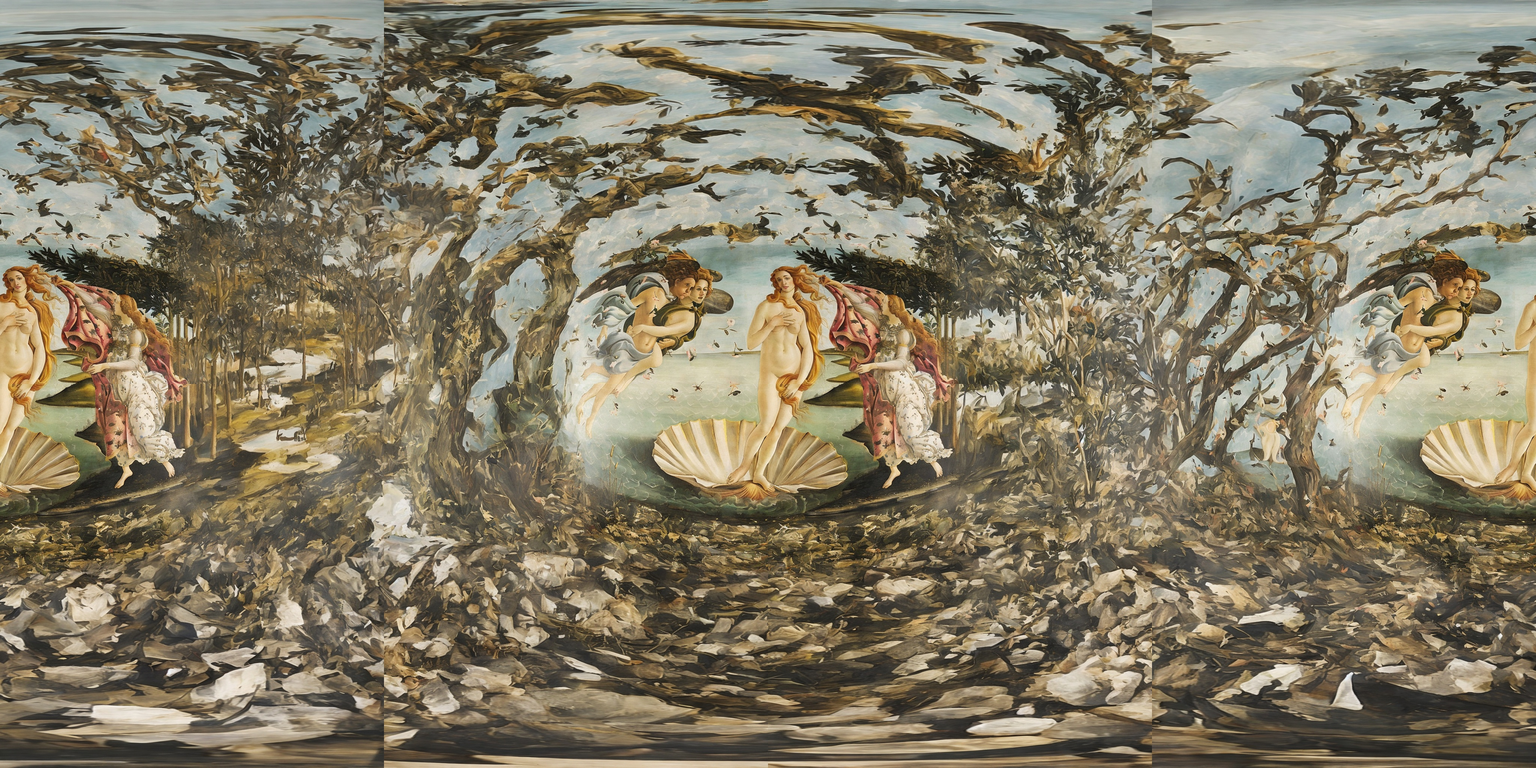
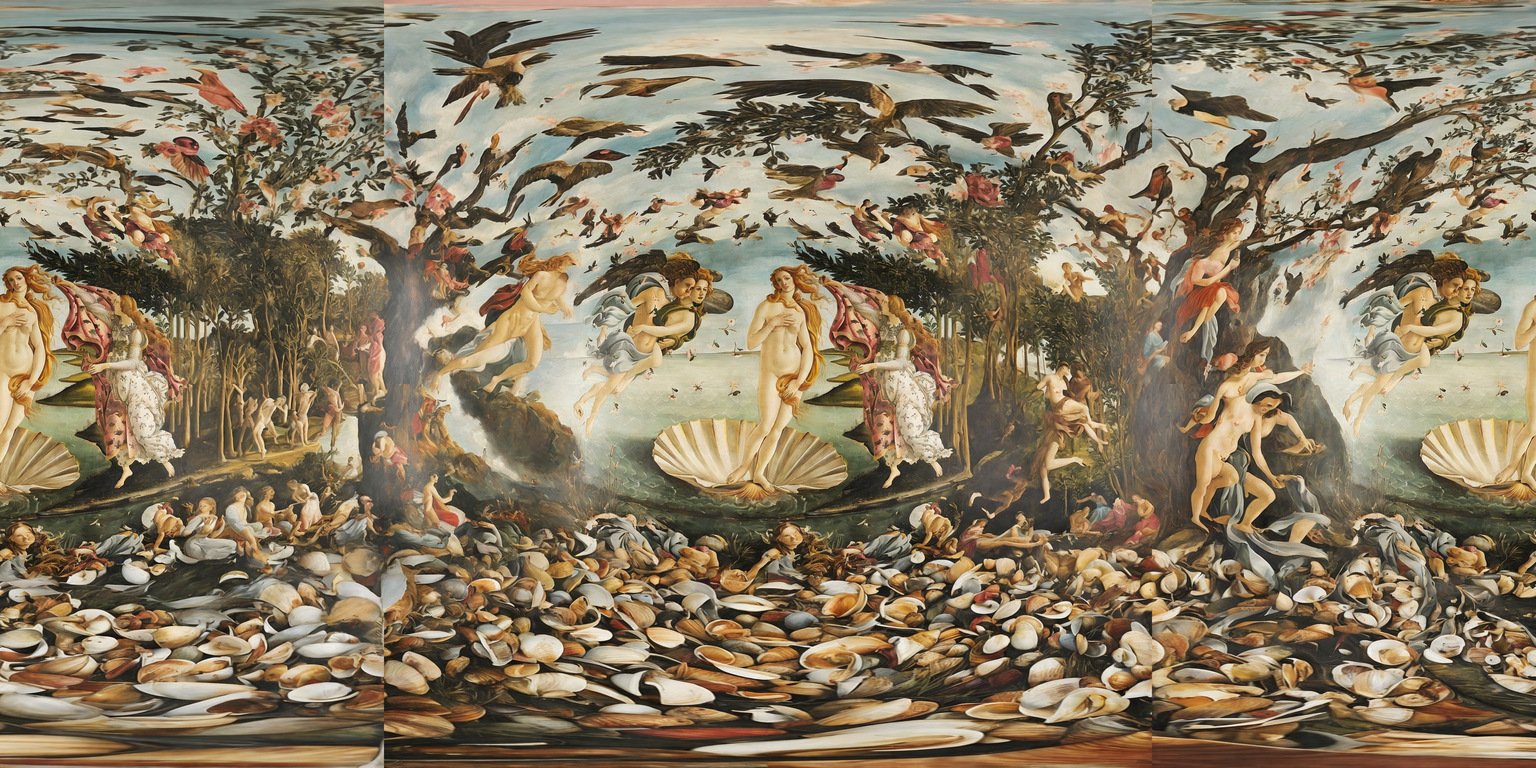
changed from llava to qwen

diff --git a/generate_prompt.py b/generate_prompt.py
@@ -4,72 +4,86 @@ import argparse
 import json
 from PIL import Image
 from utils.load_configs import load_config, PanoConfig
-from transformers import LlavaNextProcessor, LlavaNextForConditionalGeneration
+from transformers import Qwen2_5_VLForConditionalGeneration, AutoTokenizer, AutoProcessor
+from qwen_vl_utils import process_vision_info
 
-device = "cuda" if torch.cuda.is_available() else "cpu"
-      
-MODEL_ID = "llava-hf/llava-v1.6-vicuna-7b-hf"
-dtype  = torch.float16 if device == "cuda" else torch.float32
+MODEL_ID = "Qwen/Qwen2.5-VL-7B-Instruct"
 
-model     = LlavaNextForConditionalGeneration.from_pretrained(
-    MODEL_ID, torch_dtype=dtype, low_cpu_mem_usage=True,device_map="auto"
+model = Qwen2_5_VLForConditionalGeneration.from_pretrained(
+    MODEL_ID, torch_dtype="auto", device_map="auto"
 )
 
-processor = LlavaNextProcessor.from_pretrained(MODEL_ID, use_fast=True)
+processor = AutoProcessor.from_pretrained(MODEL_ID, use_fast=True)
 
-def query_llava(img: Image.Image, question: str, max_new_tokens: int = 32) -> str: 
+def build_message(image, prompt):
+    messages = [
+        {
+            "role": "system",
+            "content": "You are a vision-language assistant that builds concise, comma-separated scene descriptions. Important rule: ignore center objects and people." 
+        },
 
-    conversation = [{
-        "role": "user",
-        "content": [
-            {"type": "text",  "text": question},
-            {"type": "image"}
-        ]
-    }]
+        {
+            "role": "user",
+            "content": [
+                {
+                    "type": "image",
+                    "image": image,
+                },
+                {
+                    "type": "text", 
+                    "text": prompt
+                },
+            ],
+        }
+    ]
+    return messages
 
-    chat   = processor.apply_chat_template(conversation, add_generation_prompt=True)
-    inputs = processor(images=img, text=chat, return_tensors="pt").to(device, dtype)
-    out    = model.generate(**inputs, max_new_tokens=max_new_tokens)
 
-    return processor.decode(out[0], skip_special_tokens=True).strip()
+def query_qwen(image, prompt):
+    messages = build_message(image, prompt)
 
+    text = processor.apply_chat_template(
+    messages, tokenize=False, add_generation_prompt=True)
 
-def generate_three_prompts(img: Image.Image, prompts_path: str, in_out: str) -> dict:
+    image_inputs, video_inputs = process_vision_info(messages)
 
-    def clean_response(text: str) -> str:
-        if "ASSISTANT:" in text:
-            return text.split("ASSISTANT:", 1)[-1].strip()
-        return text.strip()
+    inputs = processor(
+        text=[text],
+        images=image_inputs,
+        videos=video_inputs,
+        padding=True,
+        return_tensors="pt",
+    )
+    inputs = inputs.to("cuda")
+    generated_ids = model.generate(**inputs, max_new_tokens=128)
+    generated_ids_trimmed = [
+        out_ids[len(in_ids) :] for in_ids, out_ids in zip(inputs.input_ids, generated_ids)
+    ]
+    output_text = processor.batch_decode(
+        generated_ids_trimmed, skip_special_tokens=True, clean_up_tokenization_spaces=False
+    )
+    return output_text[0].strip() 
 
-    sys_prompt = " Build simple descriptions."
-
+def generate_three_prompts(img, prompts_path, in_out):
     prompts = {
-        "atmosphere": query_llava(
+        "atmosphere": query_qwen(
             img,
-            f"Describe the overall scene and style, ignore specific objects and people."
-            f"{sys_prompt}"
-            
+            f"Describe the overall {'background scene' if in_out == 'indoor' else 'landscape'}  and style" 
         ),
 
-        "sky_or_ceiling": query_llava(
+        "sky_or_ceiling": query_qwen(
             img,
-            f"Describe only the {'sky' if in_out == 'outdoor' else 'ceiling'} "
-            f"{sys_prompt}"
+            f"Describe only the {'sky' if in_out == 'outdoor' else 'ceiling'} " 
         ),
 
-        "ground_or_floor": query_llava(
+        "ground_or_floor": query_qwen(
             img,
             f"Describe only the {'ground' if in_out == 'outdoor' else 'floor'} "
-            f"{sys_prompt}"
         )
     }
 
-    prompts_clean = {k: clean_response(v) for k, v in prompts.items()}
-
     with open(prompts_path, "w", encoding="utf-8") as f:
-        json.dump(prompts_clean, f, indent=2, ensure_ascii=False)
-
-    return prompts_clean
+        json.dump(prompts, f, indent=2, ensure_ascii=False)
 
 
 def parse_args():

diff --git a/run_all.py b/run_all.py
@@ -16,7 +16,7 @@ def main():
     args = parse_args()
 
     scripts = [
-        #"generate_prompt.py",
+        "generate_prompt.py",
         "run_pano.py",
         "run_fixes.py",
         "run_depth.py",
